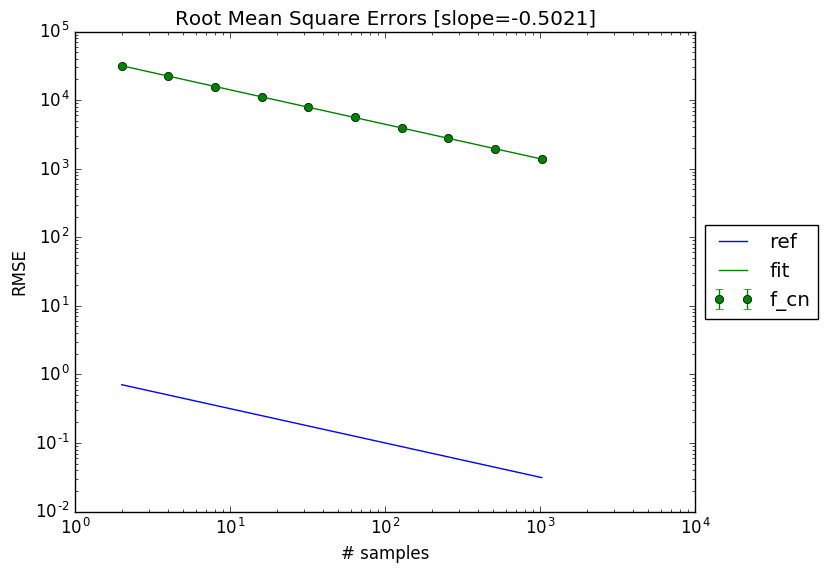
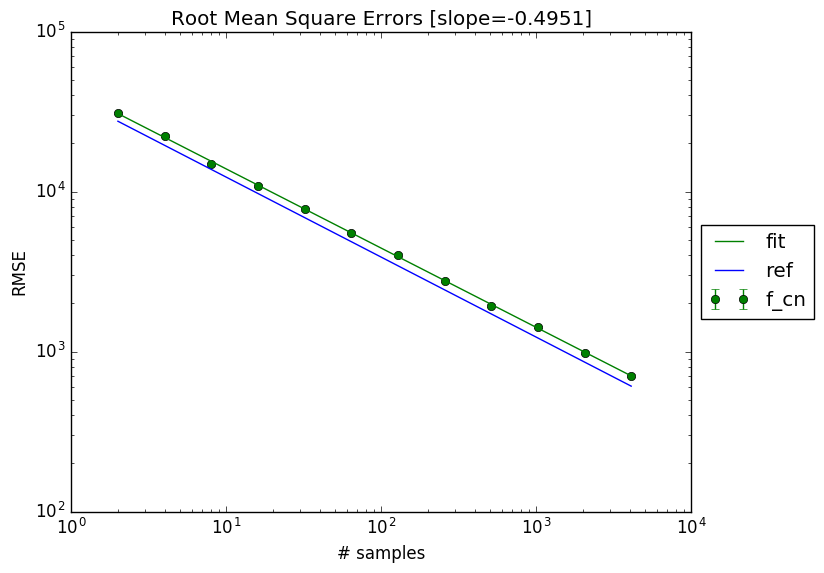
Updated images

diff --git a/src/mc_tools.py b/src/mc_tools.py
@@ -15,7 +15,7 @@ class Configuration(object):
         self.nb_samples = nb_samples
         
 ###################################################################################################################################################################################
-## Parallel calculation
+## Calculation
 ###################################################################################################################################################################################  
 from global_configuration import nb_cpus
 from multiprocessing.pool import ThreadPool as Pool
@@ -51,41 +51,41 @@ def bootstrapping(data, config=Configuration()):
         # uniform weights due to loglog scale 
         coefficients[m,:] = np.polyfit(log_nb_samples, log_RMSE, 1)
     
-    # std of RMSEs and coefficients 
+    # RMSE of RMSEs and coefficients 
     return np.std(RMSEs, axis=0, ddof=1), np.std(coefficients, axis=0, ddof=1)
  
 ###################################################################################################################################################################################
-## Visualization of characteristic values
+## Visualization
 ###################################################################################################################################################################################
 def vis_RMSE(f, config=Configuration(), plot=True, save=True):
     # nb_experiments x len(nb_samples)
     data = calculate_experiments(f=f, config=config)
-    
     # Select 1 RMSE
     RMSE = np.std(data, axis=0, ddof=1)
-    
     # Bootstrapping coefficients
-    RMSE_stds, coefficient_stds = bootstrapping(data, config=config)
-    print('slope RMSE:\t' + str(coefficient_stds[0]))
-    print('intercept RMSE:\t' + str(coefficient_stds[1]))
-    
+    RMSE_RMSE, coefficient_RMSE = bootstrapping(data, config=config)
+    print('slope RMSE:\t' + str(coefficient_RMSE[0]))
+    print('intercept RMSE:\t' + str(coefficient_RMSE[1]))
     # Visualization
-    _vis_RMSE(name=f.__name__, xs=config.nb_samples, ys=RMSE, yerr=RMSE_stds, plot=plot, save=save)
+    _vis_RMSE(name=f.__name__, xs=config.nb_samples, ys=RMSE, yerr=RMSE_RMSE, plot=plot, save=save)
 
-def _vis_RMSE(name, xs, ys, yerr, plot=True, save=True):
+def _vis_RMSE(name, xs, ys, yerr, plot=True, save=True, ref_offset=0.99):
     plt.figure()
     
-    # MC data
+    # RMSE errorbar
     plt.errorbar(xs, ys, yerr=yerr, ls='None', marker='o', color='g', label=name)
-    # 1 degree polynomial reference
-    plt.plot(xs, np.power(xs, -0.5), ls='-', color='b', label='ref')
     # 1 degree polynomial fit
     log_xs = np.log2(xs)
     log_ys = np.log2(ys)
     fitted_coefficients = np.polyfit(log_xs, log_ys, 1)
     fitted_polygon = np.poly1d(fitted_coefficients)
-    fitted_data = [2**fitted_polygon(s) for s in log_xs]
-    plt.plot(xs, fitted_data, ls='-', color='g', label='fit')
+    fitted_ys = [2**fitted_polygon(s) for s in log_xs]
+    plt.plot(xs, fitted_ys, ls='-', color='g', label='fit')
+    # 1 degree polynomial reference
+    ref_coefficients = [-0.5, ref_offset * fitted_coefficients[1]]
+    ref_polygon = np.poly1d(ref_coefficients)
+    ref_ys = [2**ref_polygon(s) for s in log_xs]
+    plt.plot(xs, ref_ys, ls='-', color='b', label='ref')
     
     plt.title('Root Mean Square Errors [slope={0:0.4f}]'.format(fitted_coefficients[0]))
     plt.xscale('log')
